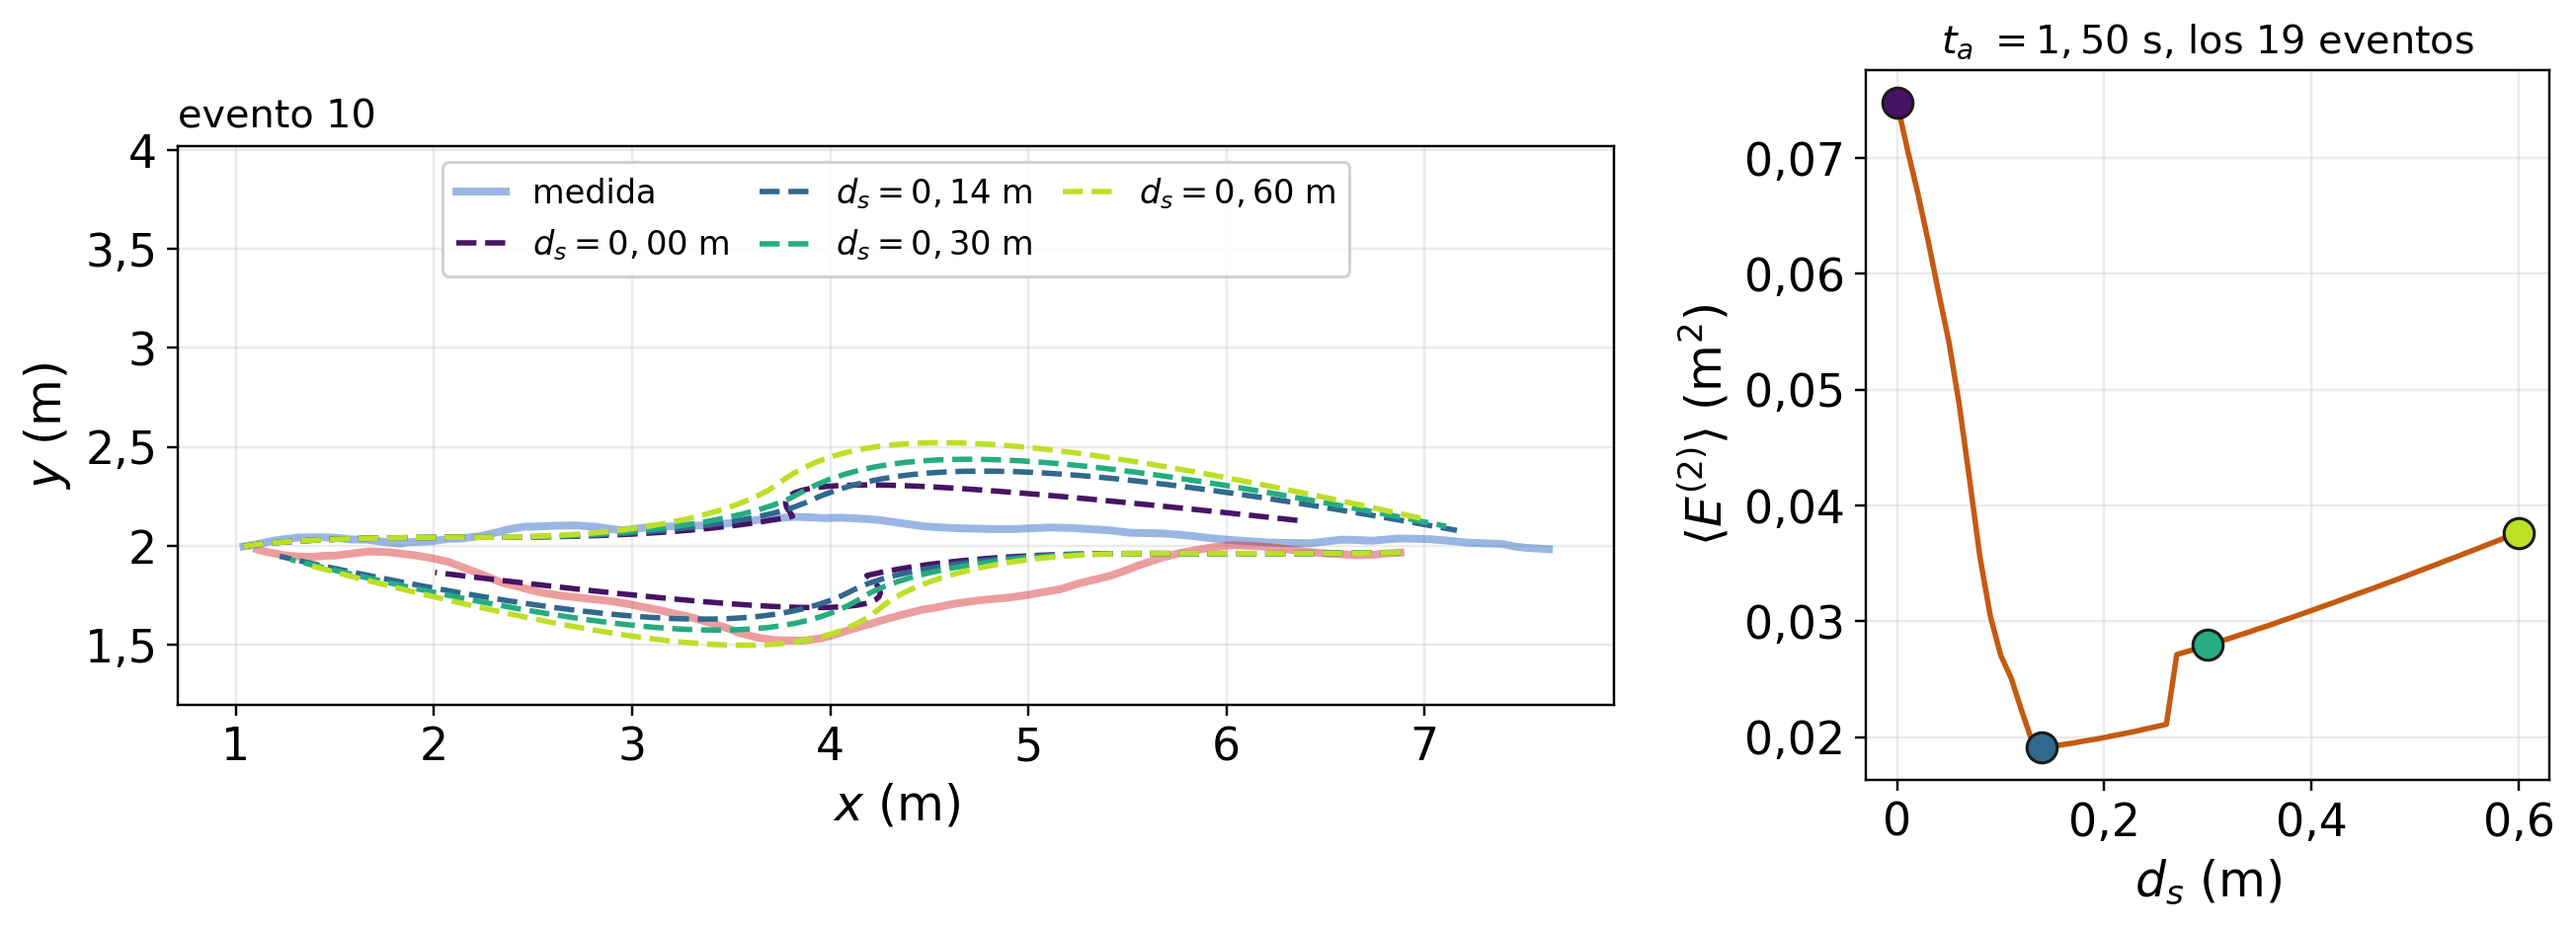
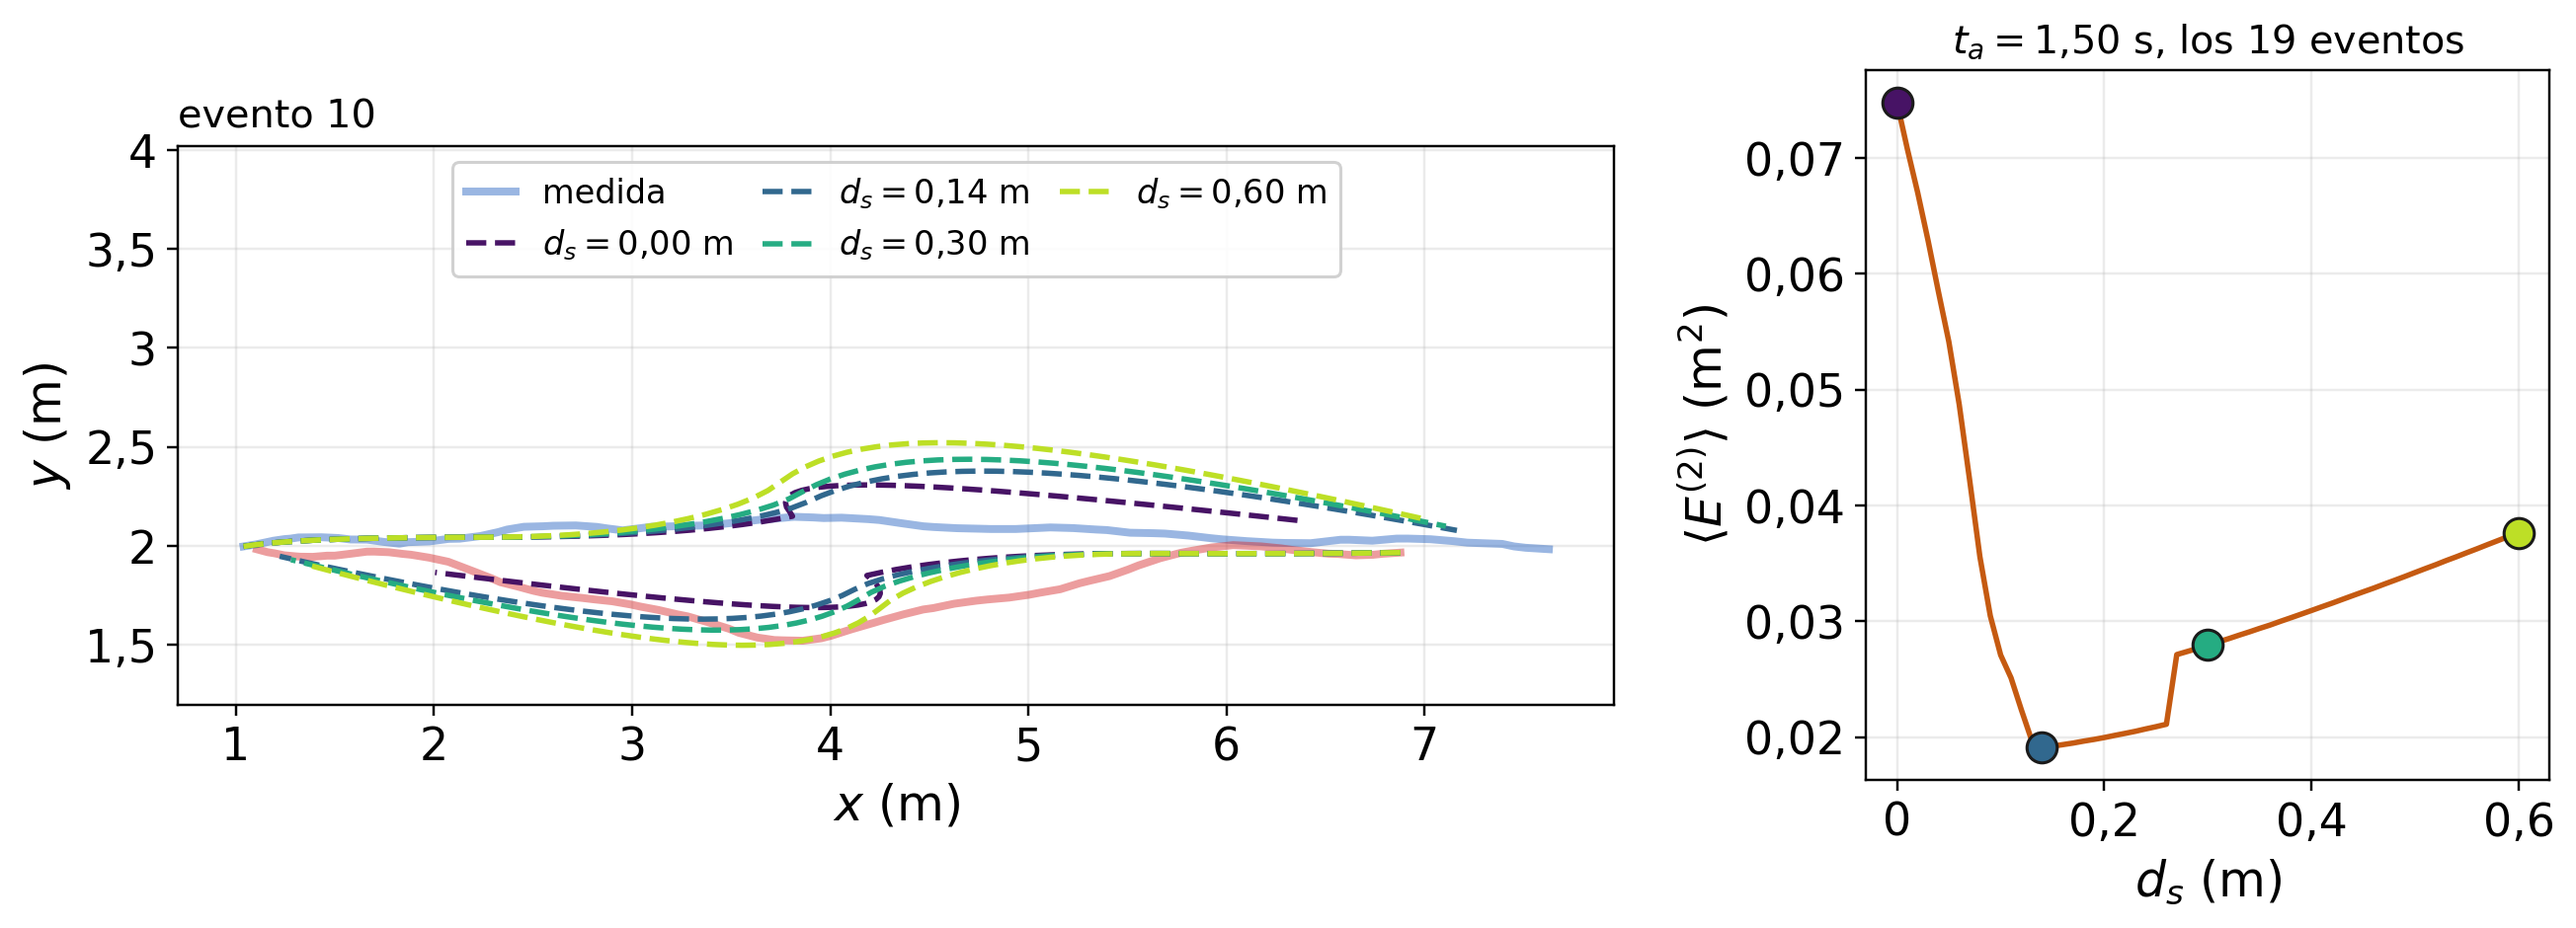
Revisión de punta a punta: coma decimal sin espacio en los rótulos y tandas con sólo sus trazas medidas

diff --git a/visualization/support.py b/visualization/support.py
@@ -149,14 +149,14 @@ class Lane:
             self.ghosts[0].set_visible(True)
             self.ghosts[1].set_visible(True)
             self.gap.set_data([mine[0], theirs[0]], [mine[1], theirs[1]])
-            text.append(f"$\\tau^* = {common.decimal(tau, 2)}$ s, "
-                        f"$d^* = {common.decimal(predicted, 2)}$ m")
+            text.append(f"$\\tau^* = {common.math_decimal(tau, 2)}$ s, "
+                        f"$d^* = {common.math_decimal(predicted, 2)}$ m")
         else:
             self.ghosts[0].set_visible(False)
             self.ghosts[1].set_visible(False)
             self.gap.set_data([], [])
         distance = float(np.linalg.norm(states[0, :2] - states[1, :2]))
-        text.append(f"$d = {common.decimal(distance, 2)}$ m")
+        text.append(f"$d = {common.math_decimal(distance, 2)}$ m")
         self.label.set_text("   ".join(text))
 
 
@@ -173,8 +173,8 @@ def head_on(arguments):
 
     figure, panels = plt.subplots(len(runs), 1, figsize=(10.0, 2.3 * len(runs) + 0.6),
                                   sharex=True)
-    lanes = [Lane(axes, run, f"$d_s = {common.decimal(value, 2)}$ m, "
-                             f"$D = {common.decimal(0.5 + value, 2)}$ m")
+    lanes = [Lane(axes, run, f"$d_s = {common.math_decimal(value, 2)}$ m, "
+                             f"$D = {common.math_decimal(0.5 + value, 2)}$ m")
              for axes, run, value in zip(np.atleast_1d(panels), runs, values)]
     panels[-1].set_xlabel(common.AXIS_X)
     header = figure.text(0.5, 0.985, "", ha="center", va="top",
@@ -192,7 +192,7 @@ def head_on(arguments):
     def update(index):
         for lane in lanes:
             lane.update(index)
-        header.set_text(f"cabeza a cabeza, $t_a = {common.decimal(arguments.p1, 2)}$ s, "
+        header.set_text(f"cabeza a cabeza, $t_a = {common.math_decimal(arguments.p1, 2)}$ s, "
                         f"$t$ = {common.decimal(time[index], 2)} s")
 
     out_dir = common.folder("anim", arguments.figures)
@@ -276,9 +276,9 @@ def sweep(arguments):
                     markeredgecolor="#1a1a1a")
     cut.set_xlabel(label)
     cut.set_ylabel(common.METRIC_AVERAGE[arguments.metrica])
-    other = "$t_a$" if arguments.parametro == "p2" else "$d_s$"
+    other = "t_a" if arguments.parametro == "p2" else "d_s"
     unit = "s" if arguments.parametro == "p2" else "m"
-    cut.set_title(f"{other} $= {common.decimal(fixed, 2)}$ {unit}, los 19 eventos",
+    cut.set_title(f"${other} = {common.math_decimal(fixed, 2)}$ {unit}, los 19 eventos",
                   fontsize=matplotlib.rcParams["legend.fontsize"])
     figure.tight_layout()
     common.comma_ticks(figure)
@@ -291,7 +291,7 @@ def sweep(arguments):
         unit_value = "s" if arguments.parametro == "p1" else "m"
         name = "t_a" if arguments.parametro == "p1" else "d_s"
         title.set_text(f"evento {arguments.evento}, ${name} = "
-                       f"{common.decimal(values[index], 2)}$ {unit_value}")
+                       f"{common.math_decimal(values[index], 2)}$ {unit_value}")
 
     out_dir = common.folder("anim", arguments.figures)
     stem = f"apoyo_barrido_{arguments.parametro}_evento{arguments.evento:02d}"
@@ -349,7 +349,7 @@ def summary(arguments, runs, values, curve_values, wanted, experimental, label, 
         for side in (0, 1):
             plane.plot(simulated[:, side, 0], simulated[:, side, 1], color=shade,
                        linewidth=1.8, linestyle="--",
-                       label=f"${name} = {common.decimal(values[index], 2)}$ {unit}"
+                       label=f"${name} = {common.math_decimal(values[index], 2)}$ {unit}"
                        if side == 0 else None)
         cut.plot([values[index]], [curve_values[index]], marker="o", color=shade,
                  markersize=10, linestyle="none", markeredgecolor="#1a1a1a")
@@ -363,9 +363,9 @@ def summary(arguments, runs, values, curve_values, wanted, experimental, label, 
                  columnspacing=0.9, handlelength=1.5)
     plane.set_title(f"evento {arguments.evento}", loc="left",
                     fontsize=matplotlib.rcParams["legend.fontsize"])
-    other_name = "$t_a$" if arguments.parametro == "p2" else "$d_s$"
+    other_name = "t_a" if arguments.parametro == "p2" else "d_s"
     other_unit = "s" if arguments.parametro == "p2" else "m"
-    cut.set_title(f"{other_name} $= {common.decimal(fixed, 2)}$ {other_unit}, los 19 eventos",
+    cut.set_title(f"${other_name} = {common.math_decimal(fixed, 2)}$ {other_unit}, los 19 eventos",
                   fontsize=matplotlib.rcParams["legend.fontsize"])
     cut.set_xlabel(label)
     cut.set_ylabel(common.METRIC_AVERAGE[arguments.metrica])

diff --git a/visualization/mosaico.py b/visualization/mosaico.py
@@ -76,14 +76,16 @@ class EventArt:
 
     def __init__(self, axes, event, faded=False, discs=True):
         self.event = event
-        self.discs, self.ghosts, self.trails = [], [], []
+        self.discs, self.ghosts, self.trails, self.measured = [], [], [], []
         radius = event["r"]
         present = event["exp"][:, :, 2] > 0.5
         for side in (0, 1):
             colour = common.EXPERIMENT_COLOR[side]
             visible = present[:, side]
-            axes.plot(event["exp"][visible, side, 0], event["exp"][visible, side, 1],
-                      color=colour, linewidth=1.0, alpha=0.25 if faded else 0.45, zorder=2)
+            measured, = axes.plot(event["exp"][visible, side, 0],
+                                  event["exp"][visible, side, 1], color=colour,
+                                  linewidth=1.0, alpha=0.25 if faded else 0.45, zorder=2)
+            self.measured.append(measured)
             trail, = axes.plot([], [], color=colour, linewidth=1.8, zorder=3)
             self.trails.append(trail)
             if discs:
@@ -210,7 +212,7 @@ def batches(events, limits, fps, path, sizes, hold):
 
 
 def set_visible(art, visible):
-    for collection in (art.trails, art.discs, art.ghosts):
+    for collection in (art.trails, art.discs, art.ghosts, art.measured):
         for artist in collection:
             artist.set_visible(visible)
 

diff --git a/visualization/common.py b/visualization/common.py
@@ -62,8 +62,8 @@ AXIS_X = "$x$ (m)"
 AXIS_Y = "$y$ (m)"
 AXIS_TIME = "$t$ (s)"
 AXIS_STEP = "$\\Delta t$ (s)"
-# p1 y p2 son los nombres del enunciado; ta y ds, los del modelo. Los ejes
-# llevan los dos porque la diapositiva de la capa los define juntos.
+# p1 y p2 son los nombres del enunciado; t_a y d_s, los del modelo, que son
+# los que llevan los ejes (la diapositiva de la capa los define).
 AXIS_P1 = "$t_a$ (s)"
 AXIS_P2 = "$d_s$ (m)"
 AXIS_E1 = "$\\langle E^{(1)} \\rangle$ (m$^2$)"
@@ -161,6 +161,12 @@ def decimal(value: float, digits: int | None = None) -> str:
     """Numero con coma decimal, como en el texto de las diapositivas."""
     text = f"{value:.{digits}f}" if digits is not None else f"{value:g}"
     return text.replace(".", ",")
+
+
+def math_decimal(value: float, digits: int | None = None) -> str:
+    """Lo mismo para usar ADENTRO de $...$: en modo matematico la coma suelta
+    deja un espacio despues ("0, 14"); entre llaves no."""
+    return decimal(value, digits).replace(",", "{,}")
 
 
 def comma_ticks(figure) -> None:

diff --git a/visualization/population.py b/visualization/population.py
@@ -96,9 +96,9 @@ def cuts(p1, p2, event_error, region, metric, figures, style):
         axes.axvline(best, color="#2ca02c", linestyle="--", linewidth=1.8)
         axes.set_xlabel(label)
         axes.set_ylabel(common.METRIC_AVERAGE[metric])
-    axesrow[0].set_title(f"$d_s = {common.decimal(p2[j], 3)}$ m",
+    axesrow[0].set_title(f"$d_s = {common.math_decimal(p2[j], 3)}$ m",
                          fontsize=matplotlib.rcParams["axes.labelsize"])
-    axesrow[1].set_title(f"$t_a = {common.decimal(p1[i], 2)}$ s",
+    axesrow[1].set_title(f"$t_a = {common.math_decimal(p1[i], 2)}$ s",
                          fontsize=matplotlib.rcParams["axes.labelsize"])
     figure.tight_layout()
     common.save(figure, common.folder("b", figures) /
